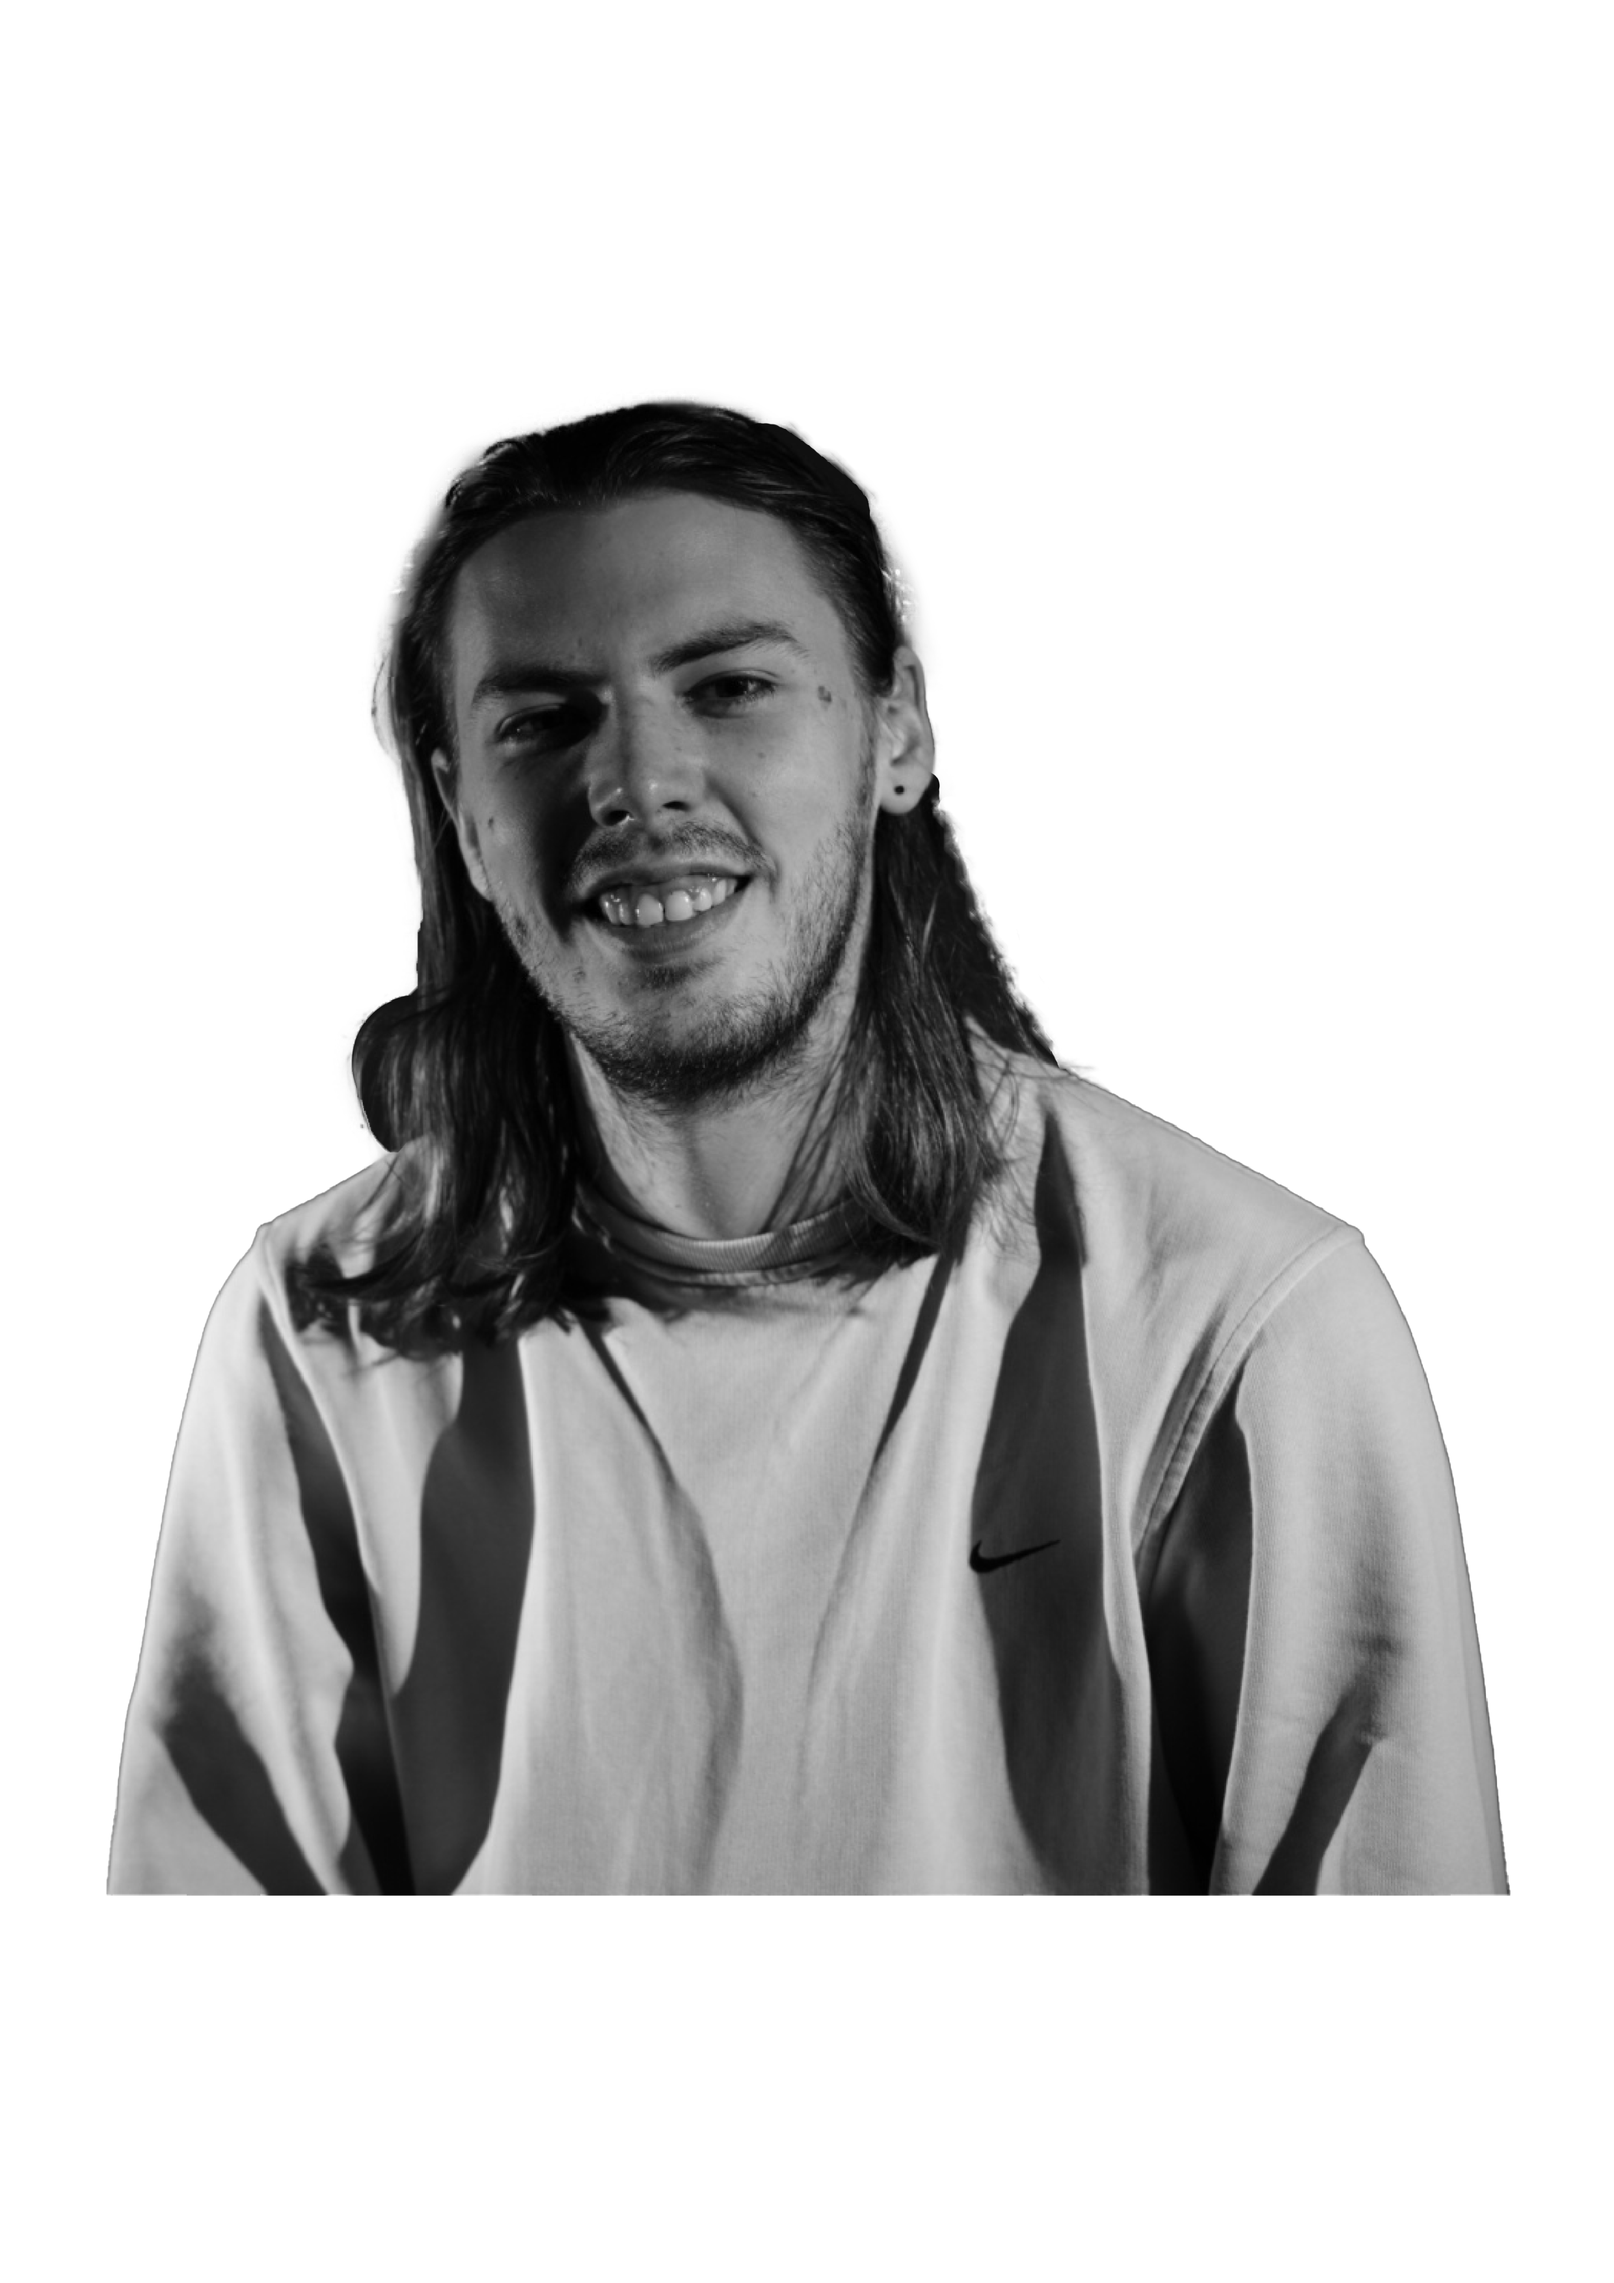
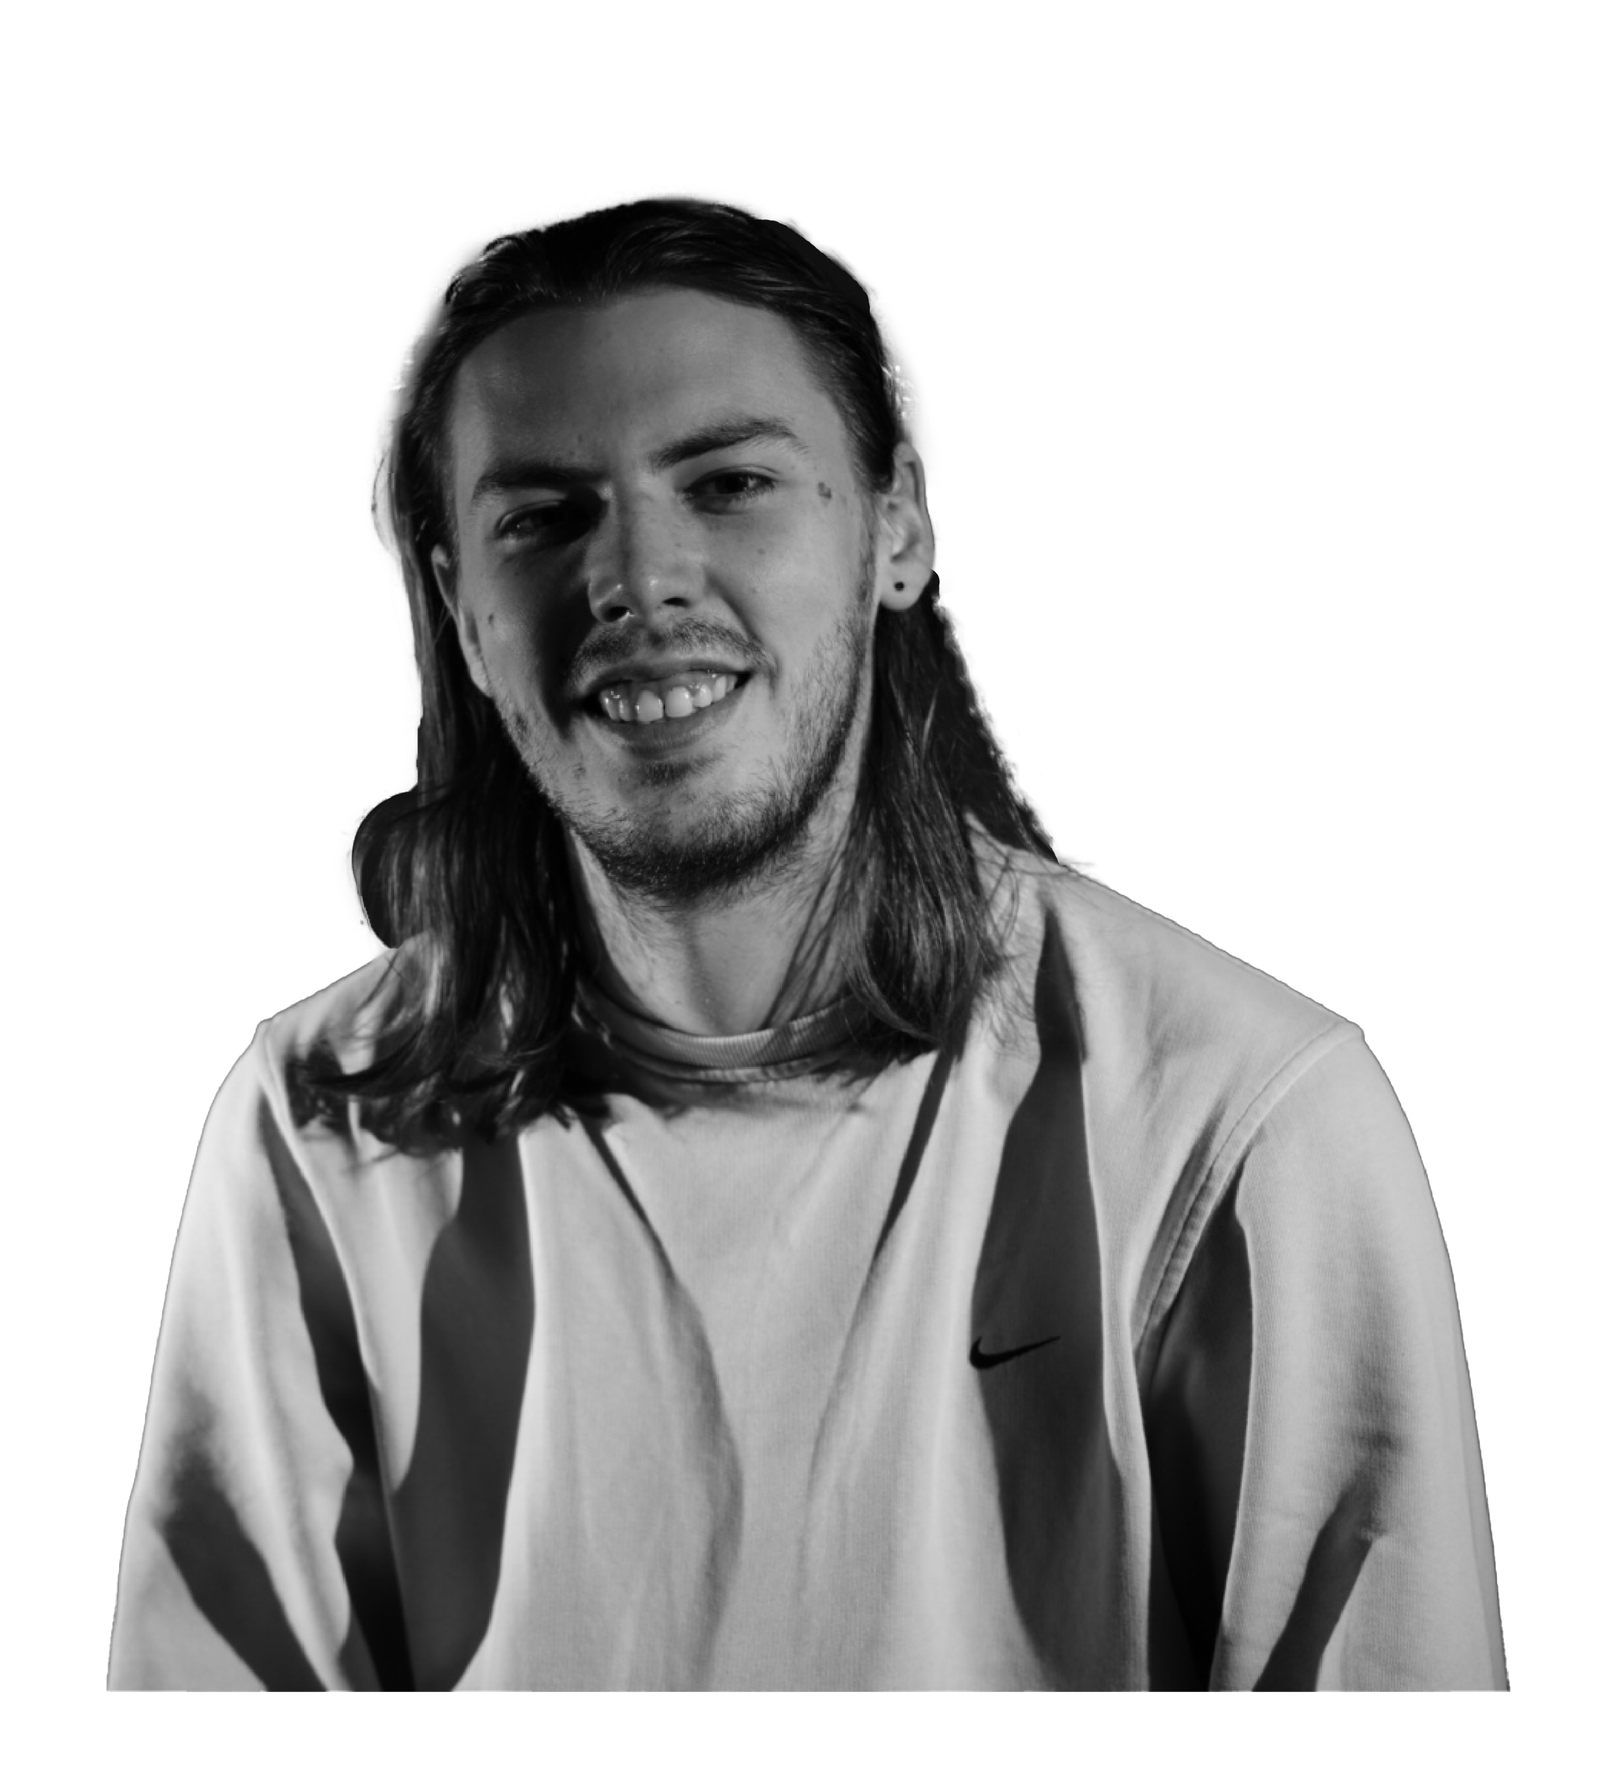
Fix Rhett headshot — crop dead space, revert to cover

Changed region(s): [[0.0621, 0.0928, 0.9311, 0.9585]]

diff --git a/app/page.tsx b/app/page.tsx
@@ -387,7 +387,7 @@ export default function HomePage() {
                 <div key={member.name} className="team-card">
                   <div className="team-img-ph">
                     {member.image
-                      ? <Image src={member.image} alt={member.name} fill style={{ objectFit: (member.name === 'Aamir Sayed' || member.name === 'Rhett Tomlinson') ? 'contain' : 'cover', objectPosition: (member.name === 'Rhett Tomlinson' || member.name === 'Aamir Sayed') ? 'bottom' : 'top' }} />
+                      ? <Image src={member.image} alt={member.name} fill style={{ objectFit: member.name === 'Aamir Sayed' ? 'contain' : 'cover', objectPosition: member.name === 'Aamir Sayed' ? 'bottom' : 'top' }} />
                       : <div className="team-img-lbl">{member.initials}</div>
                     }
                   </div>
@@ -418,7 +418,7 @@ export default function HomePage() {
                 <div key={member.name} className="team-card">
                   <div className="team-img-ph">
                     {member.image
-                      ? <Image src={member.image} alt={member.name} fill style={{ objectFit: (member.name === 'Aamir Sayed' || member.name === 'Rhett Tomlinson') ? 'contain' : 'cover', objectPosition: (member.name === 'Rhett Tomlinson' || member.name === 'Aamir Sayed') ? 'bottom' : 'top' }} />
+                      ? <Image src={member.image} alt={member.name} fill style={{ objectFit: member.name === 'Aamir Sayed' ? 'contain' : 'cover', objectPosition: member.name === 'Aamir Sayed' ? 'bottom' : 'top' }} />
                       : <div className="team-img-lbl">{member.initials}</div>
                     }
                   </div>
